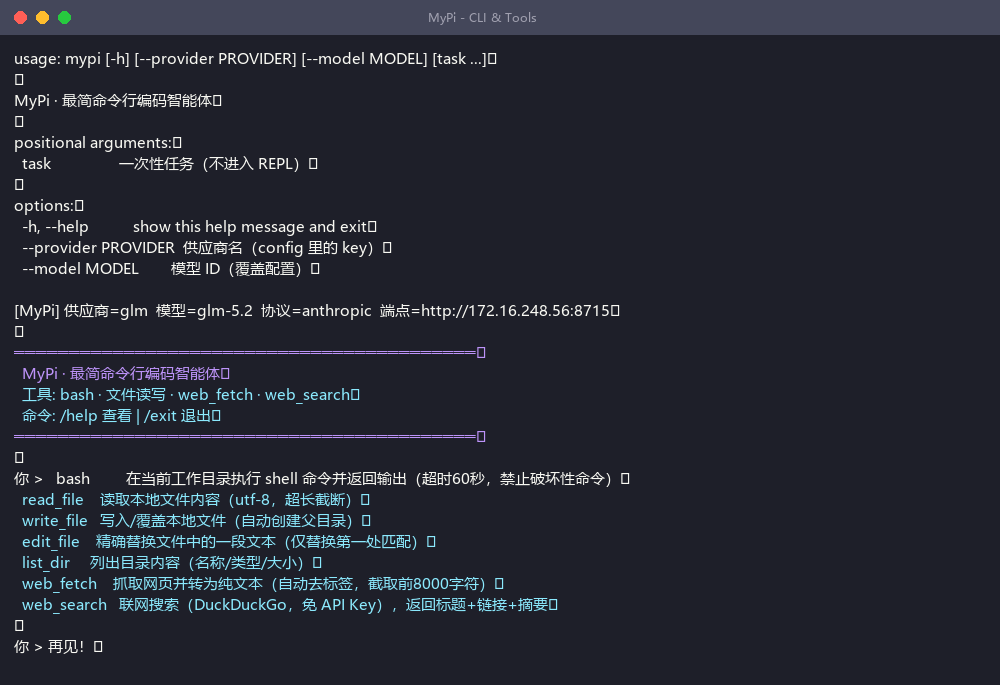
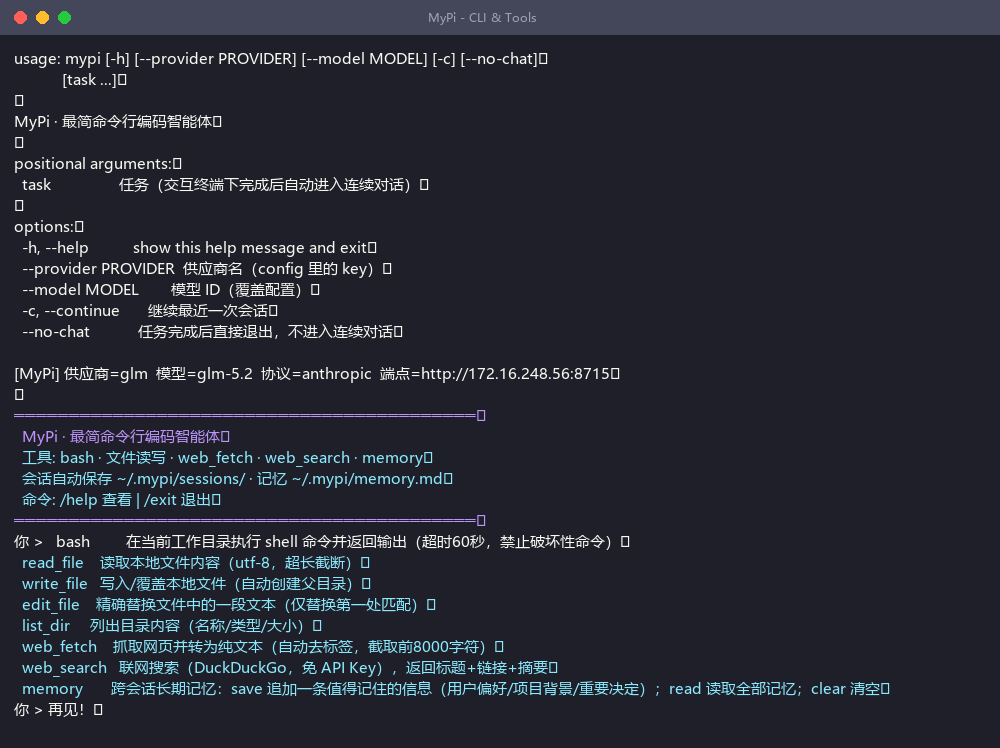
docs: README 更新 v0.3 功能（会话/记忆/rich/8工具）+ 截图

Changed region(s): [[0.0, 0.0, 1.0, 0.9504], [0.682, 0.8891, 0.899, 0.9504]]

diff --git a/docs/make_screenshots.py b/docs/make_screenshots.py
@@ -76,3 +76,33 @@ render(lines, r"D:\develop\mypi\docs\screenshots\02-agent-task-web.png",
        "MyPi - Agent Loop: web_search + write_file", width=1300)
 
 print("ALL_DONE")
+
+# ============ 截图 3: v0.3 会话恢复 + 连续对话 + 记忆 ============
+lines = [("PS D:\develop\mypi> mypi -c --provider glm     # -c 恢复最近会话", GREEN)]
+lines.append(("[MyPi] 供应商=glm  模型=glm-5.2  协议=anthropic  端点=http://172.16.248.56:8715", CYAN))
+lines.append(("[MyPi] 已恢复最近会话（2 条消息）", CYAN))
+lines.append(("", FG))
+lines.append(("  MyPi · 最简命令行编码智能体", PURPLE))
+lines.append(("  工具: bash · 文件读写 · web_fetch · web_search · memory", PURPLE))
+lines.append(("  会话自动保存 ~/.mypi/sessions/ · 记忆 ~/.mypi/memory.md", PURPLE))
+lines.append(("", FG))
+lines.append(("你 > 刚才那个任务用到了几个工具？第一次失败后是怎么自救的？", GREEN))
+lines.append(("╭─ MyPi ─────────────────────────────────────────────╮", CYAN))
+lines.append(("│ 只用到了 **1 个工具**：bash，一共调了两次。             │", FG))
+lines.append(("│ 第一次 `ls *.py` 失败——Windows 的 cmd 不认识它。      │", FG))
+lines.append(("│ 我看到 stderr 报错后换了通用写法：                     │", FG))
+lines.append(("│ `find . -maxdepth 1 -name \"*.py\" | xargs wc -l`      │", FG))
+lines.append(("│ 成功统计出 mypi.py 514 行、tools.py 329 行。           │", FG))
+lines.append(("╰────────────────────────────────────────────────────╯", CYAN))
+lines.append(("  💾 20260829-031601_帮我用bash看看当前目录有什么.json", BAR))
+lines.append(("", FG))
+lines.append(("你 > /memory save 用户偏好 Dracula 主题", GREEN))
+lines.append(("  └─ OK: 已记住（记忆共 3 条）", YELLOW))
+lines.append(("", FG))
+lines.append(("你 > （新开的进程）我的偏好是什么？", GREEN))
+lines.append(("╭─ MyPi ─────────────────────────────────────────────╮", CYAN))
+lines.append(("│ 根据长期记忆：你喜欢 **Dracula 主题**。                 │", FG))
+lines.append(("╰────────────────────────────────────────────────────╯", CYAN))
+render(lines, r"D:\develop\mypi\docs\screenshots\03-sessions-memory.png",
+       "MyPi v0.3 - Sessions & Memory", width=1180)
+print("ALL_DONE")

diff --git a/README.md b/README.md
@@ -8,16 +8,20 @@
 |---|---|
 | ![CLI and tools](docs/screenshots/01-cli-and-tools.png) | ![Agent web task](docs/screenshots/02-agent-task-web.png) |
 
-| 全局命令 + bash 工具 |
-|---|
-| ![Global command](docs/screenshots/03-global-command-bash.png) |
+| 全局命令 + bash 工具 | 会话恢复 + 跨会话记忆（v0.3） |
+|---|---|
+| ![Global command](docs/screenshots/03-global-command-bash.png) | ![Sessions & memory](docs/screenshots/03-sessions-memory.png) |
 
 
 ## ✨ 功能
 
-- 🔄 **Agent 循环**：模型可多轮调用工具，直到完成任务
+- 🔄 **Agent 循环**：模型可多轮调用工具，直到完成任务；`maxRounds` 可配（0=不限制）
+- 💬 **连续对话**：单次任务跑完后自动进入 REPL 追问（管道/脚本场景不干扰）
+- 💾 **会话持久化**：自动存档 `~/.mypi/sessions/`，`mypi -c` 续聊、`/sessions` `/load` 管理
+- 🧠 **跨会话记忆**：`memory` 工具 + `~/.mypi/memory.md` 自动注入系统提示词
+- 🎨 **rich 富界面**：Markdown 面板 / 加载动画 / 彩色工具行（未安装自动降级纯文本）
 - 🖥 **双协议**：同时支持 OpenAI（`/chat/completions`）与 Anthropic（`/v1/messages`）协议，vLLM / GLM / 任何兼容端点都能接
-- 🛠 **7 个内置工具**：
+- 🛠 **8 个内置工具**：
 
 | 工具 | 说明 |
 |------|------|
@@ -26,6 +30,7 @@
 | `list_dir` | 目录浏览 |
 | `web_fetch` | 抓取网页转纯文本（自动去标签，截断保护） |
 | `web_search` | DuckDuckGo 联网搜索，免 API Key |
+| `memory` | 跨会话长期记忆（save / read / clear，存 `~/.mypi/memory.md`） |
 
 ## 🚀 快速开始
 
@@ -94,11 +99,22 @@ mypi --provider glm     # 切换供应商
 ```
 mypi/
 ├── mypi.py               # 核心：配置加载 + Agent 循环 + 双协议客户端 + REPL
-├── tools.py              # 7 个工具 + TOOL_SCHEMAS + execute_tool()
+├── tools.py              # 8 个工具 + TOOL_SCHEMAS + execute_tool()
 ├── mypi.cmd              # Windows 全局命令包装
 ├── config.example.json   # 配置示例
-└── requirements.txt      # 唯一依赖: requests
+└── requirements.txt      # requests + rich（未装 rich 自动降级纯文本）
 ```
+
+## 💾 会话与记忆
+
+```bash
+mypi -c                    # 继续最近一次会话
+mypi -c --provider glm     # 指定供应商续聊
+```
+
+- 每轮对话自动存档到 `~/.mypi/sessions/`，REPL 里 `/save` `/sessions` `/load <序号>` 管理
+- `~/.mypi/memory.md` 是跨会话记忆文件：会话开始自动注入系统提示词，模型用 `memory` 工具追加
+- 单次任务 `mypi "任务"` 在交互终端下完成后自动进入连续对话；`--no-chat` 或管道场景直接退出
 
 ## 🧠 设计思路（为什么只有两个文件）
 
